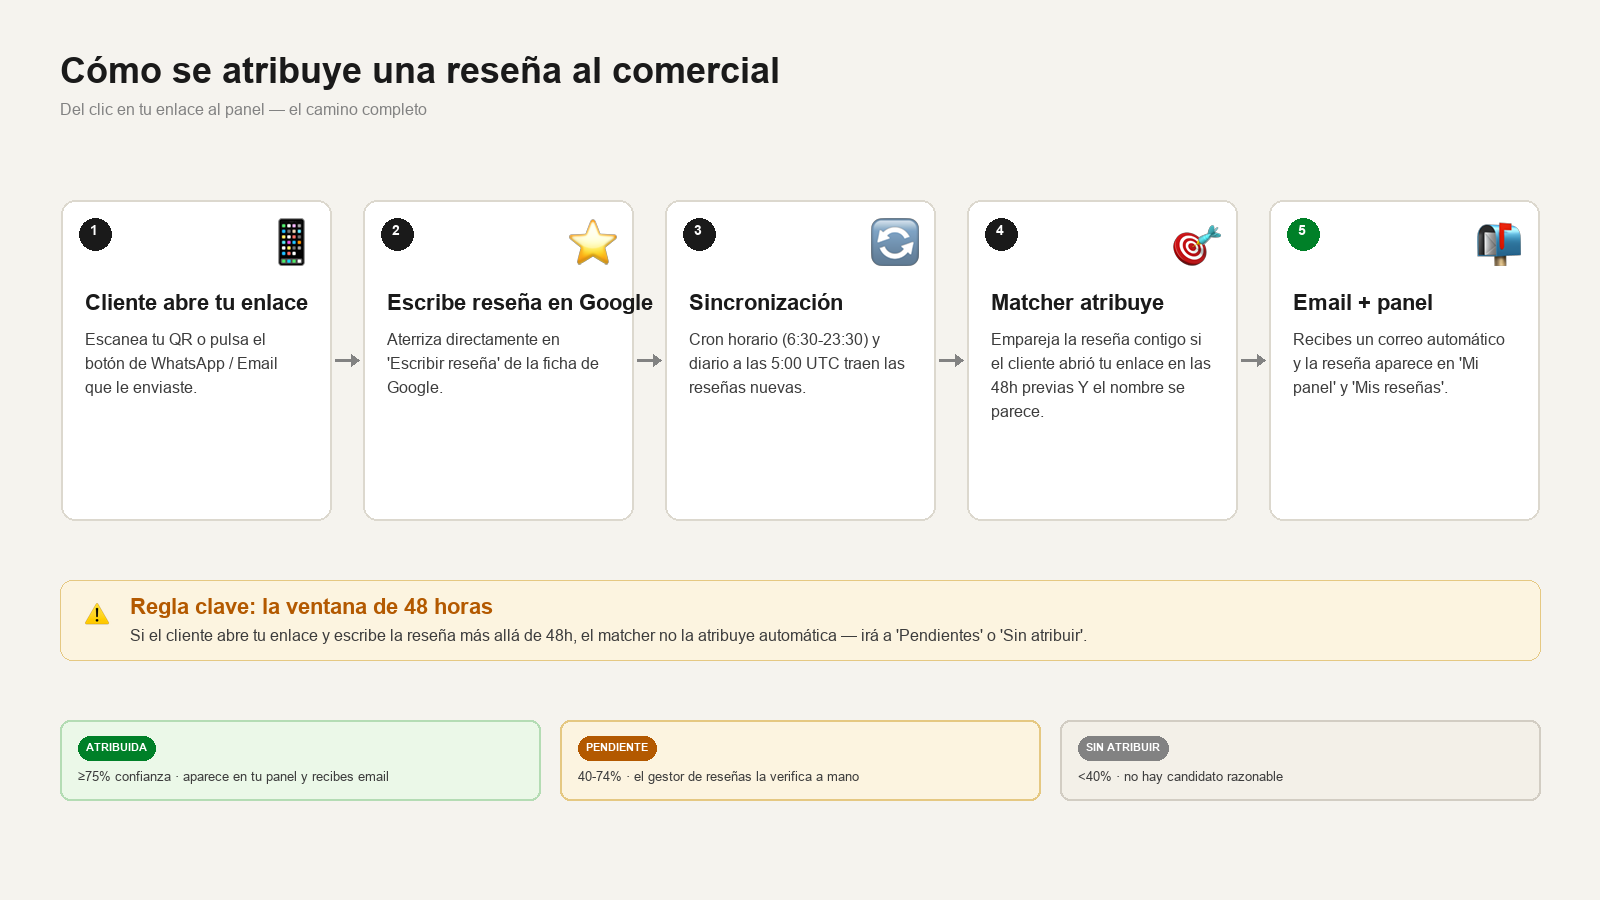
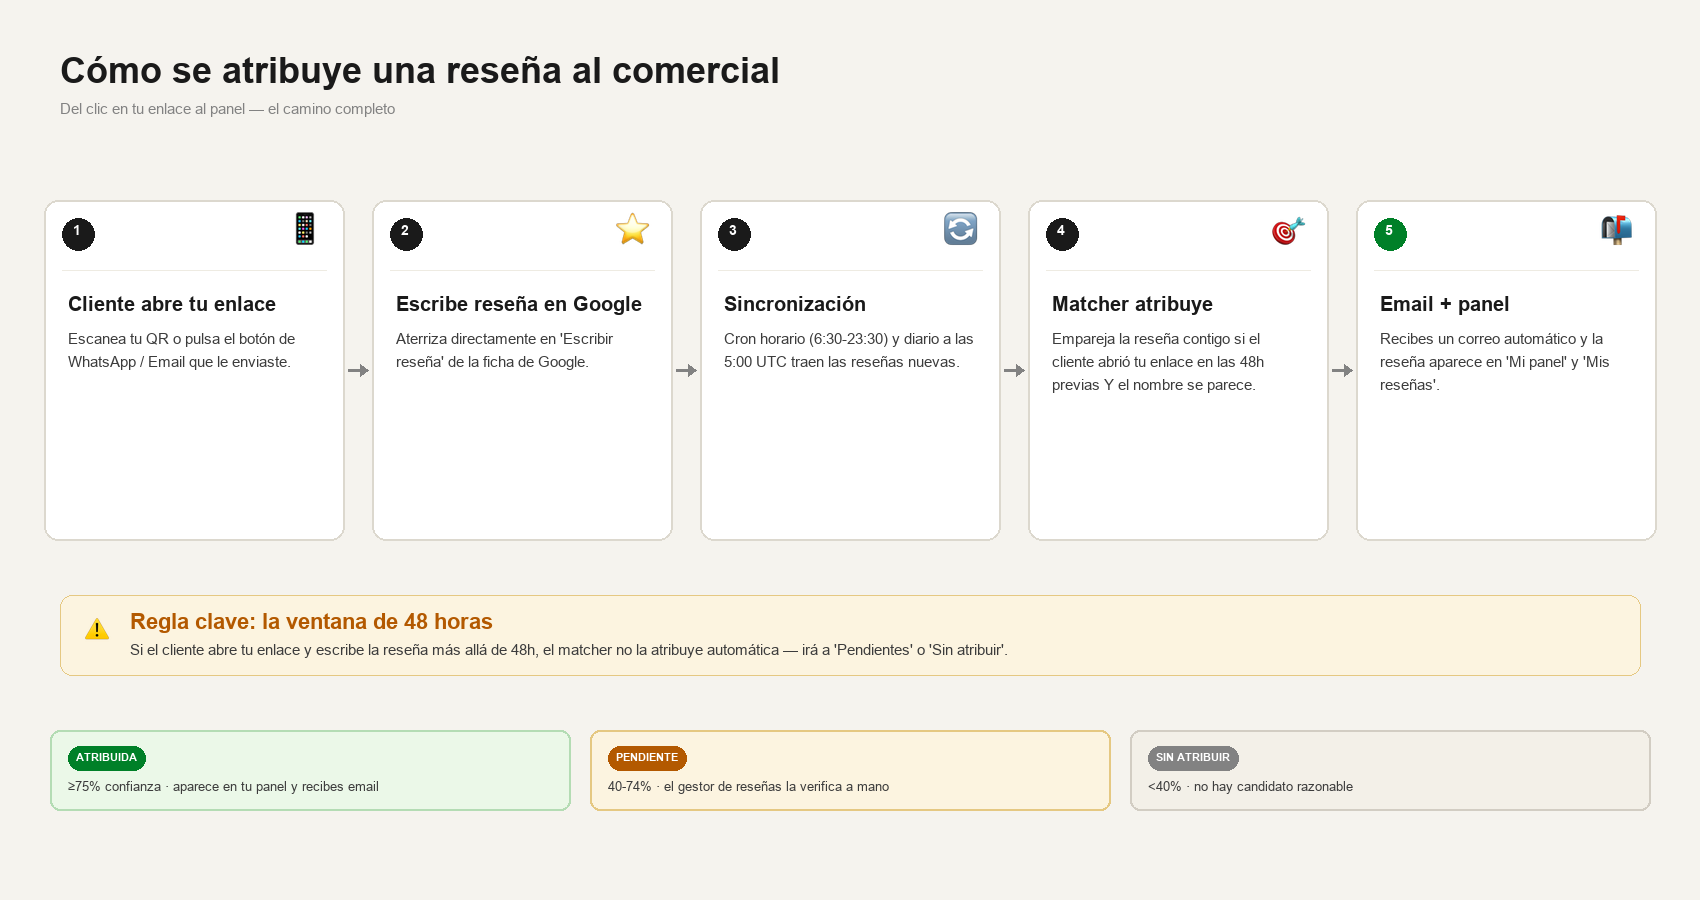
fix(ayuda): diagrama 06 con cajas más anchas + lightbox en todas las imágenes
- 06-flujo-atribucion.png regenerado a 1700×900 con cajas 300px y wrap
  robusto del título: 'Escribe reseña en Google' ya no choca con el icono.
- HelpFigure ahora abre un lightbox overlay al hacer click en la imagen.
  Cierre con clic fuera, botón × o tecla Escape. Bloquea scroll del body
  mientras está abierto. El caption muestra 'clic para ampliar' como hint.

Aplica a las 9 capturas del manual.

diff --git a/components/help/HelpFigure.tsx b/components/help/HelpFigure.tsx
@@ -1,109 +1,240 @@
 "use client";
 
-import { useState } from "react";
+import { useState, useEffect, useCallback } from "react";
 
 /**
- * Imagen de ayuda con fallback de "captura pendiente". Cuando se sube el
- * fichero a public/help/{src}, la imagen aparece. Mientras no exista, se
- * muestra un placeholder gris con el nombre del archivo y el caption para
- * que el responsable sepa qué capturar.
+ * Imagen de ayuda con dos comportamientos:
+ *  - Fallback de "captura pendiente" cuando el fichero no existe en
+ *    public/help/{src}. El placeholder muestra el nombre esperado para
+ *    que el responsable sepa qué capturar.
+ *  - Lightbox: al hacer click en la imagen real, se abre en overlay
+ *    fullscreen para que el lector la vea ampliada. Se cierra con
+ *    Escape o clic fuera.
  */
 export function HelpFigure({
   src,
   caption,
 }: {
-  /** Ruta relativa dentro de /public, ej. "/help/01-login.png" */
   src: string;
-  /** Pie de foto descriptivo de qué muestra. */
   caption: string;
 }) {
   const [hasError, setHasError] = useState(false);
+  const [open, setOpen] = useState(false);
+
+  const close = useCallback(() => setOpen(false), []);
+
+  useEffect(() => {
+    if (!open) return;
+    function onKey(e: KeyboardEvent) {
+      if (e.key === "Escape") close();
+    }
+    window.addEventListener("keydown", onKey);
+    // Bloquear scroll del body mientras está abierto.
+    const prev = document.body.style.overflow;
+    document.body.style.overflow = "hidden";
+    return () => {
+      window.removeEventListener("keydown", onKey);
+      document.body.style.overflow = prev;
+    };
+  }, [open, close]);
 
   return (
-    <figure
-      style={{
-        margin: "20px 0 28px",
-        background: "var(--surface-2)",
-        border: "1px solid var(--line)",
-        borderRadius: 12,
-        overflow: "hidden",
-      }}
-    >
-      {hasError ? (
-        <div
+    <>
+      <figure
+        style={{
+          margin: "20px 0 28px",
+          background: "var(--surface-2)",
+          border: "1px solid var(--line)",
+          borderRadius: 12,
+          overflow: "hidden",
+        }}
+      >
+        {hasError ? (
+          <div
+            style={{
+              display: "flex",
+              flexDirection: "column",
+              alignItems: "center",
+              justifyContent: "center",
+              padding: "40px 20px",
+              gap: 8,
+              background:
+                "repeating-linear-gradient(45deg, var(--surface-2), var(--surface-2) 8px, var(--surface) 8px, var(--surface) 16px)",
+              minHeight: 220,
+            }}
+          >
+            <div
+              style={{
+                fontSize: 11,
+                textTransform: "uppercase",
+                letterSpacing: "0.08em",
+                color: "var(--ink-4)",
+                fontWeight: 600,
+              }}
+            >
+              Captura pendiente
+            </div>
+            <code
+              style={{
+                fontSize: 12,
+                color: "var(--ink-2)",
+                background: "var(--surface)",
+                padding: "4px 8px",
+                borderRadius: 6,
+                border: "1px solid var(--line)",
+              }}
+            >
+              public{src}
+            </code>
+            <div
+              style={{
+                fontSize: 13,
+                color: "var(--ink-3)",
+                marginTop: 4,
+                maxWidth: 460,
+                textAlign: "center",
+                lineHeight: 1.5,
+              }}
+            >
+              {caption}
+            </div>
+          </div>
+        ) : (
+          // eslint-disable-next-line @next/next/no-img-element
+          <img
+            src={src}
+            alt={caption}
+            onError={() => setHasError(true)}
+            onClick={() => setOpen(true)}
+            style={{
+              display: "block",
+              width: "100%",
+              height: "auto",
+              background: "var(--surface)",
+              cursor: "zoom-in",
+            }}
+          />
+        )}
+        <figcaption
           style={{
+            padding: "10px 16px",
+            fontSize: 12.5,
+            color: "var(--ink-4)",
+            background: "var(--bg)",
+            borderTop: "1px solid var(--line)",
             display: "flex",
-            flexDirection: "column",
+            justifyContent: "space-between",
             alignItems: "center",
-            justifyContent: "center",
-            padding: "40px 20px",
-            gap: 8,
-            background:
-              "repeating-linear-gradient(45deg, var(--surface-2), var(--surface-2) 8px, var(--surface) 8px, var(--surface) 16px)",
-            minHeight: 220,
+            gap: 16,
           }}
         >
-          <div
+          <span>{caption}</span>
+          {!hasError && (
+            <span style={{ fontSize: 11.5, color: "var(--ink-4)", whiteSpace: "nowrap" }}>
+              clic para ampliar
+            </span>
+          )}
+        </figcaption>
+      </figure>
+
+      {/* Lightbox overlay */}
+      {open && !hasError && (
+        <div
+          role="dialog"
+          aria-modal="true"
+          aria-label={caption}
+          onClick={close}
+          style={{
+            position: "fixed",
+            inset: 0,
+            background: "rgba(0, 0, 0, 0.85)",
+            zIndex: 9999,
+            display: "flex",
+            alignItems: "center",
+            justifyContent: "center",
+            padding: 40,
+            cursor: "zoom-out",
+          }}
+        >
+          <button
+            type="button"
+            onClick={(e) => {
+              e.stopPropagation();
+              close();
+            }}
+            aria-label="Cerrar"
             style={{
-              fontSize: 11,
-              textTransform: "uppercase",
-              letterSpacing: "0.08em",
-              color: "var(--ink-4)",
-              fontWeight: 600,
+              position: "absolute",
+              top: 20,
+              right: 20,
+              width: 40,
+              height: 40,
+              borderRadius: 20,
+              border: "1px solid rgba(255,255,255,0.3)",
+              background: "rgba(0,0,0,0.6)",
+              color: "#fff",
+              fontSize: 22,
+              lineHeight: 1,
+              cursor: "pointer",
+              display: "flex",
+              alignItems: "center",
+              justifyContent: "center",
             }}
           >
-            Captura pendiente
-          </div>
-          <code
+            ×
+          </button>
+          {/* eslint-disable-next-line @next/next/no-img-element */}
+          <img
+            src={src}
+            alt={caption}
+            onClick={(e) => e.stopPropagation()}
             style={{
-              fontSize: 12,
-              color: "var(--ink-2)",
-              background: "var(--surface)",
-              padding: "4px 8px",
-              borderRadius: 6,
-              border: "1px solid var(--line)",
+              maxWidth: "95vw",
+              maxHeight: "85vh",
+              objectFit: "contain",
+              borderRadius: 8,
+              boxShadow: "0 20px 60px rgba(0,0,0,0.5)",
+              cursor: "default",
             }}
-          >
-            public{src}
-          </code>
+          />
           <div
             style={{
-              fontSize: 13,
-              color: "var(--ink-3)",
-              marginTop: 4,
-              maxWidth: 460,
+              position: "absolute",
+              bottom: 20,
+              left: 0,
+              right: 0,
               textAlign: "center",
-              lineHeight: 1.5,
+              fontSize: 13,
+              color: "rgba(255,255,255,0.85)",
+              padding: "0 40px",
+              maxWidth: 800,
+              margin: "0 auto",
             }}
           >
             {caption}
+            <div
+              style={{
+                fontSize: 11,
+                color: "rgba(255,255,255,0.5)",
+                marginTop: 4,
+              }}
+            >
+              Pulsa <kbd style={kbdStyle}>Esc</kbd> o haz clic fuera para cerrar
+            </div>
           </div>
         </div>
-      ) : (
-        // eslint-disable-next-line @next/next/no-img-element
-        <img
-          src={src}
-          alt={caption}
-          onError={() => setHasError(true)}
-          style={{
-            display: "block",
-            width: "100%",
-            height: "auto",
-            background: "var(--surface)",
-          }}
-        />
       )}
-      <figcaption
-        style={{
-          padding: "10px 16px",
-          fontSize: 12.5,
-          color: "var(--ink-4)",
-          background: "var(--bg)",
-          borderTop: "1px solid var(--line)",
-        }}
-      >
-        {caption}
-      </figcaption>
-    </figure>
+    </>
   );
 }
+
+const kbdStyle: React.CSSProperties = {
+  display: "inline-block",
+  padding: "1px 6px",
+  fontSize: 10,
+  fontFamily: "var(--font-mono, monospace)",
+  background: "rgba(255,255,255,0.15)",
+  border: "1px solid rgba(255,255,255,0.3)",
+  borderRadius: 4,
+  margin: "0 2px",
+};